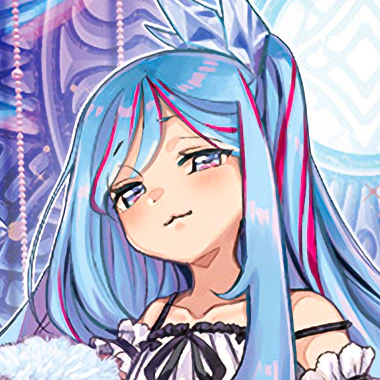
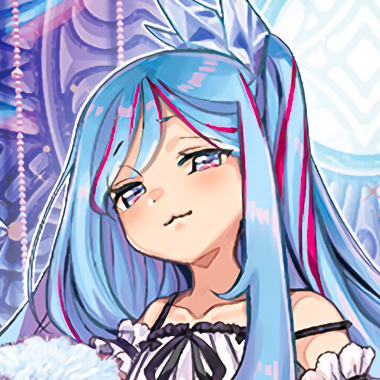
Improve Yu-Gi-Oh project cover image
- Denoise image
- Replace JPG with AVIF image
- Use Image Optimization Toolkit

diff --git a/src/index.html b/src/index.html
@@ -440,9 +440,10 @@
           <a class="card" href="/ygo-ocg-secret-rare/" rel="noreferrer noopener">
             <figure>
               <picture>
+                <source type="image/avif" srcset="./images/yugioh-cover%20(optimized).avif" />
                 <source type="image/webp" srcset="./images/yugioh-cover%20(optimized).webp" />
                 <img
-                  src="./images/yugioh-cover%20(optimized).jpg"
+                  src="./images/originals/yugioh-cover.png"
                   alt="Headshot of Madamme Verre"
                   width="380"
                   height="380"
